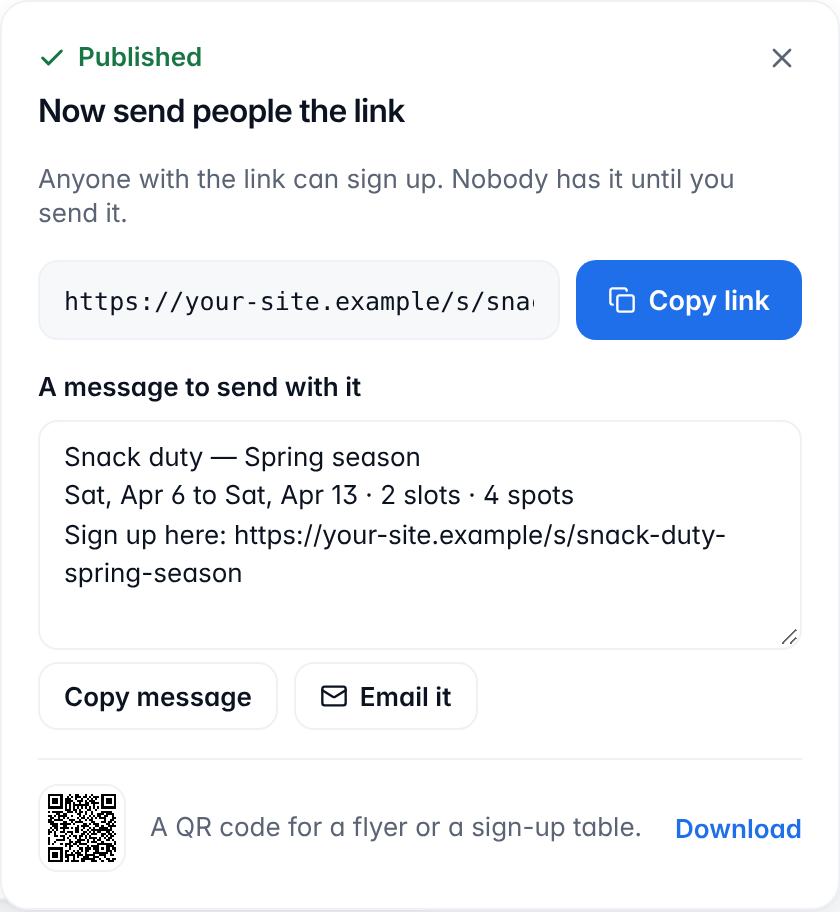
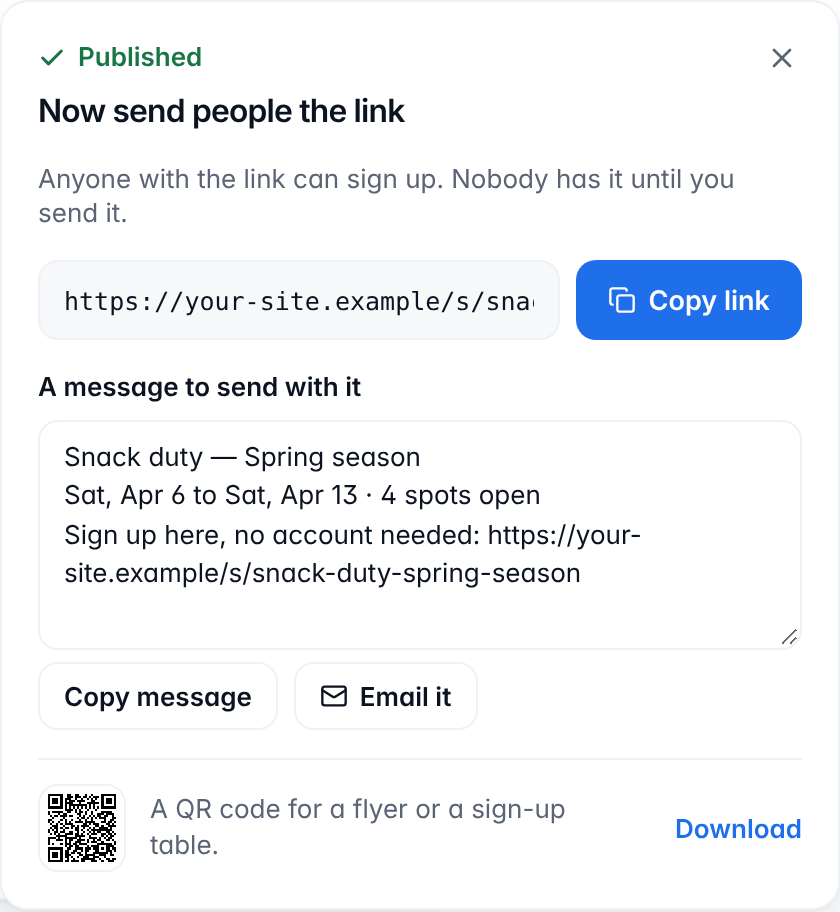
Say what the share message now holds, in the help, the walkthrough and the CHANGELOG
- The publish help's message bullet: it names the signup, gives the
  dates if the slots have them and how many spots are open if every
  slot has a limit, and says nobody needs an account to sign up; it no
  longer says it counts the slots.
- share-panel.png re-taken: the picture shows the new message. The
  walkthrough's other pictures came out the same and stay.
- The walkthrough expects "Sat, Apr 6 to Sat, Apr 13 · 4 spots open"
  and "Sign up here, no account needed:", in the box and on the
  clipboard after Copy message.
- The CHANGELOG's #505 entry gives the new example and says the last
  line tells readers they need no account, that slots aren't counted,
  and that a signup with no dates and no limits gets its title and the
  link.

Claude-Session: https://claude.ai/code/session_01HoJtwsyrp6YC4DU9JAnc7H

Changed region(s): [[0.0929, 0.5219, 0.8667, 0.6447], [0.1857, 0.8596, 0.7738, 0.9518], [0.0619, 0.8904, 0.0929, 0.9518]]

diff --git a/tests/e2e/help/create-and-publish-a-signup.spec.ts b/tests/e2e/help/create-and-publish-a-signup.spec.ts
@@ -142,9 +142,10 @@ test.describe('help: create and publish your first signup', () => {
     await expect(page).toHaveURL(/\/build$/);
     const copyLink = panel.getByRole('button', { name: UI.copyLink });
     await expect(copyLink).toBeFocused();
-    // The message names the signup, its dates, its slots and its spots.
+    // The message names the signup, its dates and the spots open, and says
+    // no account is needed: no count of slots, the organizer's word.
     await expect(panel.getByRole('textbox', { name: 'A message to send with it' })).toHaveValue(
-      /^Snack duty — Spring season\nSat, Apr 6 to Sat, Apr 13 · 2 slots · 4 spots\nSign up here: \S+\/s\/snack-duty-spring-season[-\w]*$/,
+      /^Snack duty — Spring season\nSat, Apr 6 to Sat, Apr 13 · 4 spots open\nSign up here, no account needed: \S+\/s\/snack-duty-spring-season[-\w]*$/,
     );
     if (CAPTURE) {
       // The stand-in address again, in the link and in the message; the QR
@@ -169,7 +170,9 @@ test.describe('help: create and publish your first signup', () => {
     await expect(panel.getByRole('button', { name: 'Copied' })).toBeVisible();
     await expect.poll(clipboard).toMatch(/\/s\/snack-duty-spring-season[-\w]*$/);
     await panel.getByRole('button', { name: UI.copyMessage }).click();
-    await expect.poll(clipboard).toMatch(/^Snack duty — Spring season\n.*\nSign up here: /);
+    await expect
+      .poll(clipboard)
+      .toMatch(/^Snack duty — Spring season\n.*\nSign up here, no account needed: /);
     await expect(panel.getByRole('link', { name: UI.emailIt })).toHaveAttribute(
       'href',
       /^mailto:\?subject=Snack%20duty%20%E2%80%94%20Spring%20season&body=/,

diff --git a/src/help/articles/create-and-publish-a-signup.tsx b/src/help/articles/create-and-publish-a-signup.tsx
@@ -160,9 +160,10 @@ export function CreateAndPublishASignup() {
                 <Ui>{UI.copyLink}</Ui> copies the link. Paste it into an email or a group chat.
               </li>
               <li>
-                There&apos;s a message to send with the link. It names your signup and says how
-                many slots there are. If the slots have dates, it gives them. If every slot has a
-                limit, it says how many spots are left. You can change the message.{' '}
+                There&apos;s a message to send with the link. It names your signup. If the slots
+                have dates, it gives them. If every slot has a limit, it says how many spots are
+                open. It also says that nobody needs an account to sign up. You can change the
+                message.{' '}
                 <Ui>{UI.copyMessage}</Ui> copies it, with the link. <Ui>{UI.emailIt}</Ui> opens
                 your email app with it.
               </li>

diff --git a/CHANGELOG.md b/CHANGELOG.md
@@ -5,7 +5,7 @@ All notable changes to OpenSignup are documented here. Format follows [Keep a Ch
 ## [Unreleased]
 
 ### Added
-- After **Publish**, a panel helps the organizer send the link, in place of the "Signup published" banner (#505). It says "Published" and "Now send people the link", and offers **Copy link**; a message to send with it, built from the signup's own data, such as "Fall book fair volunteers / Thu, Nov 12 to Sat, Nov 14 · 8 slots · 21 spots / Sign up here: <link>" (the dates come from the date field reminders use; the spots are left out when an open slot has no limit, and once people have signed up they read "18 spots left"), which the organizer can change and which stays changed while the page is open; **Copy message** and **Email it**, a `mailto:` link with the title as its subject; and a QR code to **Download** as a PNG for a flyer or a sign-up table, shown only where the browser can draw it. On a phone that has a share menu, **Share…** comes first and opens it with the message and link, in place of Copy message and Email it. On a computer the panel opens under the header's buttons; on a phone it is a sheet, and the More actions sheet that held **Publish signup** closes first. An open signup's header now has a **Share** button that opens the panel again, headed "Share the link": on a computer in the blue spot right of **Preview**, before ⋯, and on a phone under the public link. Publish now stays on the tab it was pressed on instead of going to Build with `?published=1`, so a reload or a shared address never opens the panel again. Escape or the panel's ✕ closes it and puts focus back on Share, as does a tap outside the sheet on a phone; on a computer a click outside closes it and leaves focus where it landed. Each copy is announced, and a copy the clipboard refuses (a site served over plain HTTP, a denied permission) says "Couldn’t copy. Select the link and copy it." and selects the link. When Publish on this page has published the signup, screen readers hear "Published. Anyone with the link can sign up now."; a signup published elsewhere, such as by an AI assistant, doesn't open the panel or say so. The QR code is drawn in the browser by `lean-qr` 2.7.4 (MIT, no dependencies); it and the rest of the panel load only when the panel first opens, or as Publish is pressed, so no page's first load carries them, and if that load fails the panel still shows the public link with its copy button, and "Couldn’t load the other ways to share. Reload to try again." Email it opens the organizer's own email app, and Share… the phone's own menu; the QR code goes to no outside service. Copies and shares from the panel are recorded through the link-copy beacon from #525: Copy link and Copy message as `signup.link_copied` with the surfaces `share_panel` and `share_message` (the fallback's chip counts as `share_panel`), and Share… once the menu says it sent, Email it and the QR code's Download, each on its click, as a new `signup.link_shared` event (`share_menu`, `email`, `qr_code`); a refused copy or a share menu closed without sending records nothing. Each row holds only the surface and the signup's status: never the message, and nothing about who the link went to. `POST /api/signups/[id]/link-events` takes `event=shared` and refuses a surface that isn't its event's, `docs/telemetry.md` lists the new event and surfaces, and the privacy page says the log records these. The help page "Create and publish your first signup" says what the panel offers.
+- After **Publish**, a panel helps the organizer send the link, in place of the "Signup published" banner (#505). It says "Published" and "Now send people the link", and offers **Copy link**; a message to send with it, built from the signup's own data, such as "Fall book fair volunteers / Thu, Nov 12 to Sat, Nov 14 · 21 spots open / Sign up here, no account needed: <link>" (the dates come from the date field reminders use; there's no count of slots, the organizer's word; the spots are left out when an open slot has no limit or none are left, and once people have signed up they read "18 spots left"; the last line tells readers they need no account to sign up; a signup with no dates and no limits gets its title and the link, and the description stays out, since a link preview shows it), which the organizer can change and which stays changed while the page is open; **Copy message** and **Email it**, a `mailto:` link with the title as its subject; and a QR code to **Download** as a PNG for a flyer or a sign-up table, shown only where the browser can draw it. On a phone that has a share menu, **Share…** comes first and opens it with the message and link, in place of Copy message and Email it. On a computer the panel opens under the header's buttons; on a phone it is a sheet, and the More actions sheet that held **Publish signup** closes first. An open signup's header now has a **Share** button that opens the panel again, headed "Share the link": on a computer in the blue spot right of **Preview**, before ⋯, and on a phone under the public link. Publish now stays on the tab it was pressed on instead of going to Build with `?published=1`, so a reload or a shared address never opens the panel again. Escape or the panel's ✕ closes it and puts focus back on Share, as does a tap outside the sheet on a phone; on a computer a click outside closes it and leaves focus where it landed. Each copy is announced, and a copy the clipboard refuses (a site served over plain HTTP, a denied permission) says "Couldn’t copy. Select the link and copy it." and selects the link. When Publish on this page has published the signup, screen readers hear "Published. Anyone with the link can sign up now."; a signup published elsewhere, such as by an AI assistant, doesn't open the panel or say so. The QR code is drawn in the browser by `lean-qr` 2.7.4 (MIT, no dependencies); it and the rest of the panel load only when the panel first opens, or as Publish is pressed, so no page's first load carries them, and if that load fails the panel still shows the public link with its copy button, and "Couldn’t load the other ways to share. Reload to try again." Email it opens the organizer's own email app, and Share… the phone's own menu; the QR code goes to no outside service. Copies and shares from the panel are recorded through the link-copy beacon from #525: Copy link and Copy message as `signup.link_copied` with the surfaces `share_panel` and `share_message` (the fallback's chip counts as `share_panel`), and Share… once the menu says it sent, Email it and the QR code's Download, each on its click, as a new `signup.link_shared` event (`share_menu`, `email`, `qr_code`); a refused copy or a share menu closed without sending records nothing. Each row holds only the surface and the signup's status: never the message, and nothing about who the link went to. `POST /api/signups/[id]/link-events` takes `event=shared` and refuses a surface that isn't its event's, `docs/telemetry.md` lists the new event and surfaces, and the privacy page says the log records these. The help page "Create and publish your first signup" says what the panel offers.
 - Activity events for the steps where new organizers stop (#500), so they can be counted: `signup.link_copied` when an organizer copies a signup's link from its header (sent from the browser to `POST /api/signups/[id]/link-events`, which takes only a signed-in member of the signup's workspace, 60 an hour each), `magic_compose.failed` with the AI draft's error code, `refusal`, `not_saved` or `over_limit`, and `signup.publish_refused` when a publish is turned down for having no slots or because the signup was closed or archived meanwhile, from the browser, the API or a connected assistant. A publish of a signup that's already open isn't counted as refused. The publish refusal for a signup with no slots now names `field: 'slots'`. The organizer's page views (`signup.draft_started`, `signup.viewed` on the Build tab, `signup.editor_opened`, `signup.previewed`) now say whether they were opened on a phone or a computer (`device`), and `signup.draft_started` says which form the page showed (`mode: 'magic' | 'manual'`). Payloads hold codes and kinds only: no prompt, no email, no User-Agent. `docs/telemetry.md` lists them, and the privacy page says the log records these.
 - Participants are emailed when the organizer moves their slot to a new date or time (#524). The email ("Time changed: <signup> · <slot>") prints the slot's new details and the participant's link to change or cancel, and goes about 10 minutes after the organizer's last change, so a date and then a time, or a date typed day by day, send one email for where the slot ended up, and a slot moved back before then sends none. It follows the reminders setting: with reminders off, or for someone who unsubscribed, nothing is sent, and the unsubscribe link and page now say they stop these emails too. A reminder for a time the participant was already told about reads as a normal "Reminder"; "Time changed" now means their last email, whatever it was, was for another time. Moves are made through the Build tab, a group heading or the `update_slot` tool; a field change that re-times every slot (a deleted time field, a new reminder date) sends nothing. In the Build tab, a slot's editor now says how many people are signed up for it and whether they'll be told if it moves. Each move writes a `slot.rescheduled` activity row (`{ slotId, from, to }`) and each email a `slot.change_sent` row. The worker gains two queues, `slot-changes.dispatch` (every 2 minutes) and `slot-changes.send`; it creates them itself when it starts, so there is nothing to migrate.
 - `pnpm eval:mcp`, an opt-in eval of what a connected AI assistant builds through the MCP tools (#254). It sends each case in `evals/magic-compose/dev-evals.json` to a tool-calling model with the server instructions and the tool list, takes the arguments of its `create_signup` call, and scores them with the checks the Magic Compose evals use, now shared in `scripts/lib/eval-harness.ts`. It reuses the `LLM_*` settings and needs no database. Like `pnpm eval:magic-compose`, it is run by hand, never in CI. Two new cases check that a signup for parents at each game gets one dated slot per game, with the right capacity, and no fields for names, emails or what someone brings.
